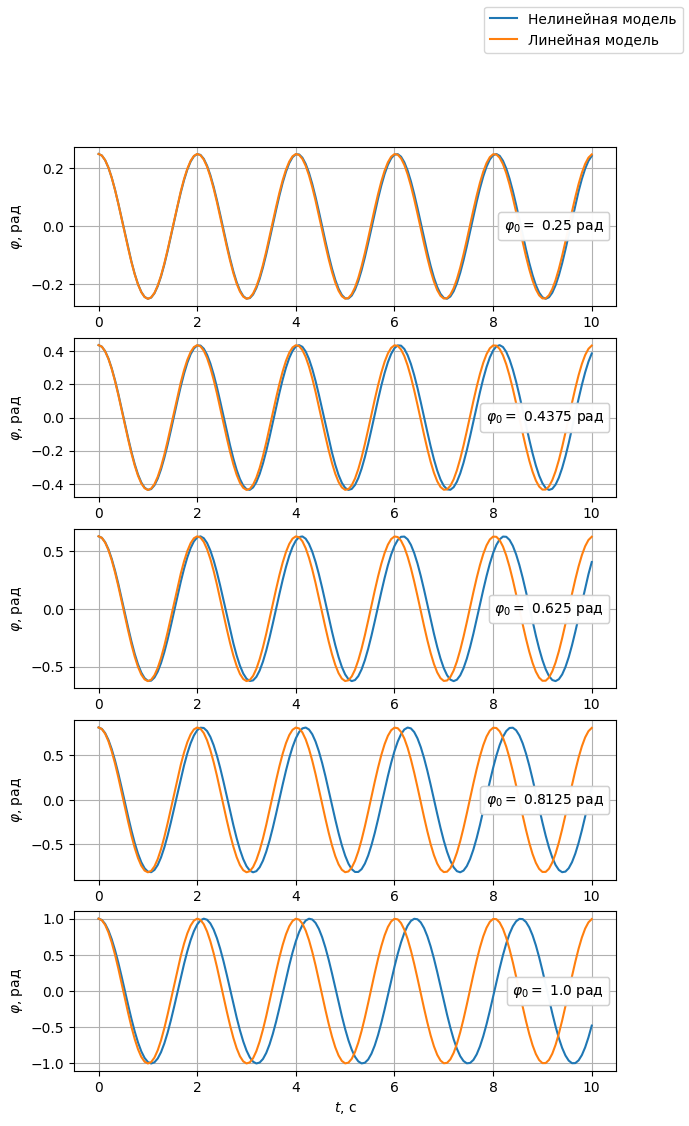
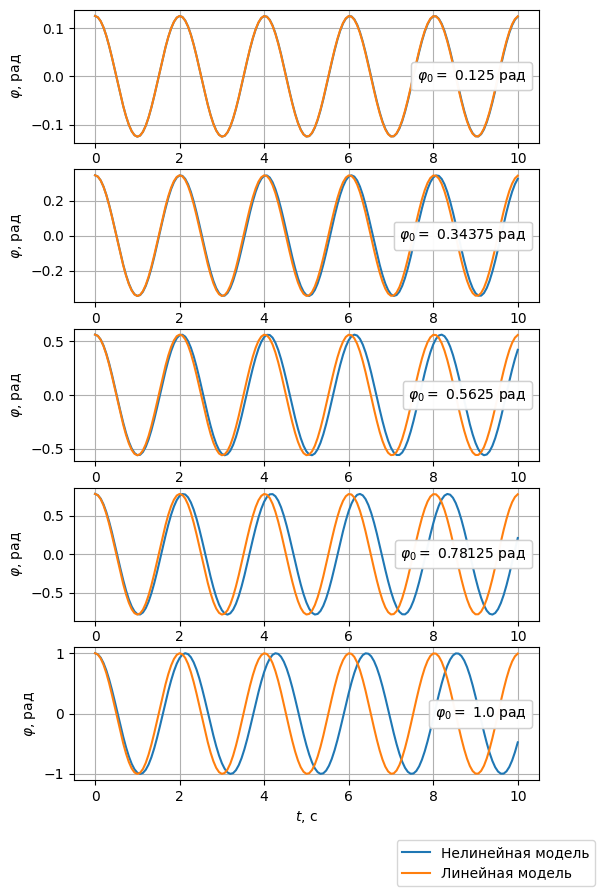
exp w friction

diff --git a/main.py b/main.py
@@ -77,7 +77,7 @@ if __name__ == '__main__':
     axs[1].grid()
     axs[1].legend()
     plt.savefig("linear_nonlinear.png", bbox_inches='tight')
-    plt.show()
+    # plt.show()
     plt.clf()
     plt.close()
 
@@ -85,12 +85,12 @@ if __name__ == '__main__':
     # СРАВНЕНИЕ ЛИНЕЙНОЙ И НЕЛИНЕЙНОЙ МОДЕЛЕЙ ДЛЯ РАЗНЫХ НАЧАЛЬНЫХ УГЛОВ
 
     n_comparisons = 5
-    phi0_list = np.linspace(0.25, 1, n_comparisons)
+    phi0_list = np.linspace(0.125, 1, n_comparisons)
 
     y_nonlinear = [rungeKutta(t, [v0, phi0_list[i]], dv_nonlinear, parameters) for i in range(n_comparisons)]
     y_linear = [rungeKutta(t, [v0, phi0_list[i]], dv_linear, parameters) for i in range(n_comparisons)]
     legend_line_list = []
-    fig, axs = plt.subplots(n_comparisons, 1, figsize=(7, 12))
+    fig, axs = plt.subplots(n_comparisons, 1, figsize=(6, 10))
     for i in range(n_comparisons):
         if i == 0:
             line1 = axs[i].plot(t, y_nonlinear[i][:, 1], label="Нелинейная модель")
@@ -98,7 +98,7 @@ if __name__ == '__main__':
             legend_line_list = [line1, line2]
         else:
             axs[i].plot(t, y_nonlinear[i][:, 1])
-            axs[i].plot(t, y_linear[i][:, 1])
+            axs[i].plot(t, y_nonlinear[i][:, 1])
         axs[i].set_xlabel(r"$t$, с")
         axs[i].set_ylabel(r"$\varphi$, рад")
         axs[i].grid()
@@ -107,10 +107,54 @@ if __name__ == '__main__':
         pseudo_title = axs[i].legend(handles=[empty_line], handlelength=0, handletextpad=0, loc='right')
         axs[i].add_artist(pseudo_title)
 
-    fig.legend(handles=[l[0] for l in legend_line_list], loc='outside right upper')
+    fig.legend(handles=[l[0] for l in legend_line_list], loc='outside right lower')
     fig.savefig("lin_nonlin_4_phis.png", bbox_inches='tight')
+    # plt.show()
+    plt.clf()
+    plt.close()
+
+
+    # СИЛА ТРЕНИЯ
+
+    k = 0.2
+    parameters = [omega, k, omega_f, A]
+    y_nonlin = rungeKutta(t, [v0, phi0], dv_nonlinear, parameters)
+
+    fig, axs = plt.subplots(1, 2, figsize=(12, 5))
+    axs[0].plot(t, y_nonlin[:, 1], label=rf"$k = {k}$" + r"$c^{-1}$")
+    axs[1].scatter(y_nonlin[:, 1], y_nonlin[:, 0], marker='.', label=rf"$k = {k}$" + r"$c^{-1}$")
+
+    axs[0].set_xlabel(r"$t$, с")
+    axs[0].set_ylabel(r"$\varphi$, рад")
+    axs[0].grid()
+    axs[0].legend()
+    axs[1].set_xlabel(r"$\varphi$, рад")
+    axs[1].set_ylabel(r"$v$, рад/с")
+    axs[1].grid()
+    axs[1].legend()
+    plt.savefig(f"with_k_{k}.png", bbox_inches='tight')
     plt.show()
     plt.clf()
     plt.close()
 
 
+    k = 0.6
+    parameters = [omega, k, omega_f, A]
+    y_nonlin = rungeKutta(t, [v0, phi0], dv_nonlinear, parameters)
+
+    fig, axs = plt.subplots(1, 2, figsize=(12, 5))
+    axs[0].plot(t, y_nonlin[:, 1], label=rf"$k = {k}$" + r"$c^{-1}$", color="orange")
+    axs[1].scatter(y_nonlin[:, 1], y_nonlin[:, 0], marker='.', label=rf"$k = {k}$" + r"$c^{-1}$", color="orange")
+
+    axs[0].set_xlabel(r"$t$, с")
+    axs[0].set_ylabel(r"$\varphi$, рад")
+    axs[0].grid()
+    axs[0].legend()
+    axs[1].set_xlabel(r"$\varphi$, рад")
+    axs[1].set_ylabel(r"$v$, рад/с")
+    axs[1].grid()
+    axs[1].legend()
+    plt.savefig(f"with_k_{k}.png", bbox_inches='tight')
+    plt.show()
+    plt.clf()
+    plt.close()
